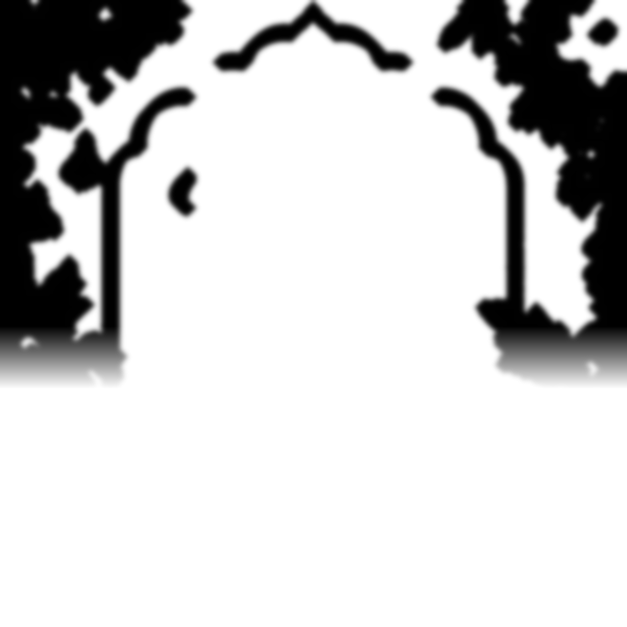
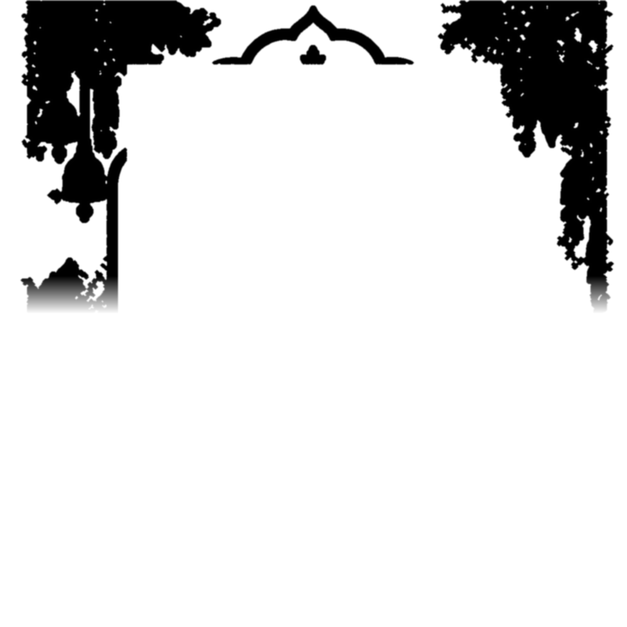
Reception without the dangle; elsewhere sway the whole strand cleanly
The reception invitation has no garland layer at all. On the other two, the
page beneath the swinging garlands is a copy with the garlands painted out
(-still.jpg), so the overlay mask can hug the strands tightly: no halo to drag
the palms along, no tip fade leaving the still strand showing through, and no
mark left behind when a strand swings away. The Mehendi page uses a mid-card
cut so its bells and flower cascades move while the pillars, tray, lantern and
hands stay.

diff --git a/main.js b/main.js
@@ -13,7 +13,11 @@
   const backImg = card.querySelector('.face.back img');
 
   // the invitation's pages, listed in the hidden .pages block of each route's index.html
-  const pages = [...document.querySelectorAll('.pages img')].map(img => ({ src: img.getAttribute('src'), alt: img.alt }));
+  const pagesEl = document.querySelector('.pages');
+  const SWAY = pagesEl.hasAttribute('data-sway');      // this invitation's garlands dangle
+  const pages = [...pagesEl.querySelectorAll('img')].map(img => ({ src: img.getAttribute('src'), alt: img.alt }));
+  const stillOf = (src) => src.replace(/\.jpg$/, '-still.jpg');   // the page with its garlands painted out
+  const maskOf = (src) => src.replace(/\.jpg$/, '-mask.png');     // the garlands alone
   const N = pages.length;
   let cur = 0;
 
@@ -36,13 +40,14 @@
 
   /* ---------- pages ---------- */
   function setFace(img, i) {
-    img.src = pages[i].src; img.alt = pages[i].alt;
+    const { src, alt } = pages[i];
+    img.alt = alt;
     const sway = img.nextElementSibling;                 // the garland layer that dangles over the page
-    if (sway) {
-      sway.style.backgroundImage = `url("${pages[i].src}")`;
-      const mask = `url("${pages[i].src.replace(/\.jpg$/, '-mask.png')}")`;   // that page's own garland cut-out
-      sway.style.webkitMaskImage = mask; sway.style.maskImage = mask;
-    }
+    if (!SWAY || !sway) { img.src = src; return; }
+    img.src = stillOf(src);                              // still page beneath, garlands removed
+    sway.style.backgroundImage = `url("${src}")`;        // the garlands, cut from the full page
+    const mask = `url("${maskOf(src)}")`;
+    sway.style.webkitMaskImage = mask; sway.style.maskImage = mask;
   }
   function renderControls() {
     if (N > 2) {
@@ -57,7 +62,7 @@
       dots.hidden = true;
     }
   }
-  function preloadPages() { pages.forEach(p => { for (const s of [p.src, p.src.replace(/\.jpg$/, '-mask.png')]) { const im = new Image(); im.src = s; } }); }
+  function preloadPages() { pages.forEach(p => { for (const s of SWAY ? [p.src, stillOf(p.src), maskOf(p.src)] : [p.src]) { const im = new Image(); im.src = s; } }); }
 
   /* ---------- marigold petals ---------- */
   const petalBox = document.getElementById('petals');

diff --git a/muhurtham-reception/index.html b/muhurtham-reception/index.html
@@ -14,7 +14,7 @@
 <link rel="preconnect" href="https://fonts.googleapis.com">
 <link rel="preconnect" href="https://fonts.gstatic.com" crossorigin>
 <link href="https://fonts.googleapis.com/css2?family=Cormorant+Garamond:ital,wght@0,500;0,600;1,500&display=swap" rel="stylesheet">
-<link rel="stylesheet" href="../styles.css?v=7">
+<link rel="stylesheet" href="../styles.css?v=8">
 </head>
 <body>
 
@@ -37,7 +37,7 @@
         <div class="face front"><img draggable="false" alt=""><span class="sway" aria-hidden="true"></span></div>
         <div class="face back"><img draggable="false" alt=""><span class="sway" aria-hidden="true"></span></div>
       </div>
-      <div class="pages" hidden>
+      <div class="pages" hidden data-sway>
         <img src="../assets/muhurtham-reception/1.jpg" alt="You are invited to join us for an evening of Mehendi ceremony, to celebrate the colours of love, happiness and new beginnings with music and memorable moments. Wednesday 18 Nov 2026, 5:00 pm to 9:30 pm. Venue: Kasturba Hall, Senapati Bapat Marg, Tulsi Pipe Road, opposite Matunga Road Station (West), 400016. Colour theme: yellow or green.">
         <img src="../assets/muhurtham-reception/2.jpg" alt="Smt. Mahalakshmi and Shri Ravinarayan request your gracious presence to celebrate and bless the wedding of their daughter Sow. Shruti (grand daughter of late Smt. Lakshmi and Shri P. N. Seshan, and late Smt. Alamelu and Shri C. N. Vaidyanathan) with Chi. Rahul (son of Smt. Usha and Shri Rangilal Jaiswal).">
         <img src="../assets/muhurtham-reception/3.jpg" alt="Friday, 20th November 2026 at Sumati Gurjar Bhavan, Sant Vershaw Kakkaya Marg, opposite Sushrut Hospital, Swastik Park, Chembur, Mumbai 400071. Muhurtham: Abhijit Lagnam 12:15 to 1:00 pm. Reception 6:30 pm to 10:00 pm. With best compliments from Rashmi and Shanker.">
@@ -121,6 +121,6 @@
   </div>
 </main>
 
-<script src="../main.js?v=7" defer></script>
+<script src="../main.js?v=8" defer></script>
 </body>
 </html>

diff --git a/muhurtham/index.html b/muhurtham/index.html
@@ -14,7 +14,7 @@
 <link rel="preconnect" href="https://fonts.googleapis.com">
 <link rel="preconnect" href="https://fonts.gstatic.com" crossorigin>
 <link href="https://fonts.googleapis.com/css2?family=Cormorant+Garamond:ital,wght@0,500;0,600;1,500&display=swap" rel="stylesheet">
-<link rel="stylesheet" href="../styles.css?v=7">
+<link rel="stylesheet" href="../styles.css?v=8">
 </head>
 <body>
 
@@ -37,7 +37,7 @@
         <div class="face front"><img draggable="false" alt=""><span class="sway" aria-hidden="true"></span></div>
         <div class="face back"><img draggable="false" alt=""><span class="sway" aria-hidden="true"></span></div>
       </div>
-      <div class="pages" hidden>
+      <div class="pages" hidden data-sway>
         <img src="../assets/muhurtham/1.jpg" alt="Smt. Mahalakshmi and Shri Ravinarayan request your gracious presence to celebrate and bless the wedding of their daughter Sow. Shruti (grand daughter of late Smt. Lakshmi and Shri P. N. Seshan, and late Smt. Alamelu and Shri C. N. Vaidyanathan) with Chi. Rahul (son of Smt. Usha and Shri Rangilal Jaiswal).">
         <img src="../assets/muhurtham/2.jpg" alt="Friday, 20th November 2026 at Sumati Gurjar Bhavan, Sant Vershaw Kakkaya Marg, opposite Sushrut Hospital, Swastik Park, Chembur, Mumbai 400071. Muhurtham: Abhijit Lagnam 12:15 to 1:00 pm. With best compliments from Rashmi and Shanker.">
       </div>
@@ -120,6 +120,6 @@
   </div>
 </main>
 
-<script src="../main.js?v=7" defer></script>
+<script src="../main.js?v=8" defer></script>
 </body>
 </html>

diff --git a/reception/index.html b/reception/index.html
@@ -14,7 +14,7 @@
 <link rel="preconnect" href="https://fonts.googleapis.com">
 <link rel="preconnect" href="https://fonts.gstatic.com" crossorigin>
 <link href="https://fonts.googleapis.com/css2?family=Cormorant+Garamond:ital,wght@0,500;0,600;1,500&display=swap" rel="stylesheet">
-<link rel="stylesheet" href="../styles.css?v=7">
+<link rel="stylesheet" href="../styles.css?v=8">
 </head>
 <body>
 
@@ -34,8 +34,8 @@
 
       <!-- the invitation: main.js turns through the pages listed below -->
       <div class="card" id="card">
-        <div class="face front"><img draggable="false" alt=""><span class="sway" aria-hidden="true"></span></div>
-        <div class="face back"><img draggable="false" alt=""><span class="sway" aria-hidden="true"></span></div>
+        <div class="face front"><img draggable="false" alt=""></div>
+        <div class="face back"><img draggable="false" alt=""></div>
       </div>
       <div class="pages" hidden>
         <img src="../assets/reception/1.jpg" alt="Smt. Mahalakshmi and Shri Ravinarayan request your gracious presence to celebrate the wedding reception of their daughter Sow. Shruti (grand daughter of late Smt. Lakshmi and Shri P. N. Seshan, and late Smt. Alamelu and Shri C. N. Vaidyanathan) with Chi. Rahul (son of Smt. Usha and Shri Rangilal Jaiswal).">
@@ -120,6 +120,6 @@
   </div>
 </main>
 
-<script src="../main.js?v=7" defer></script>
+<script src="../main.js?v=8" defer></script>
 </body>
 </html>
